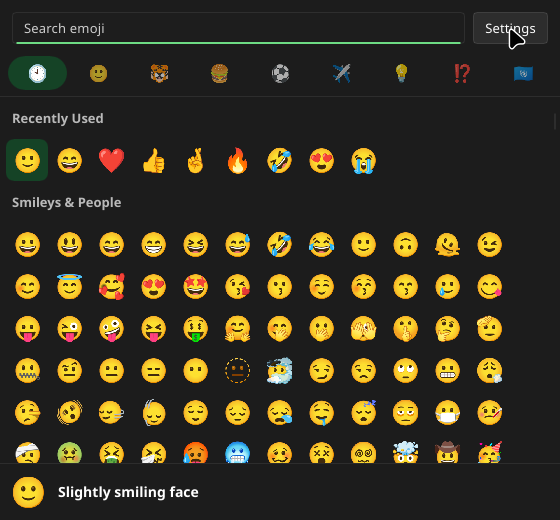
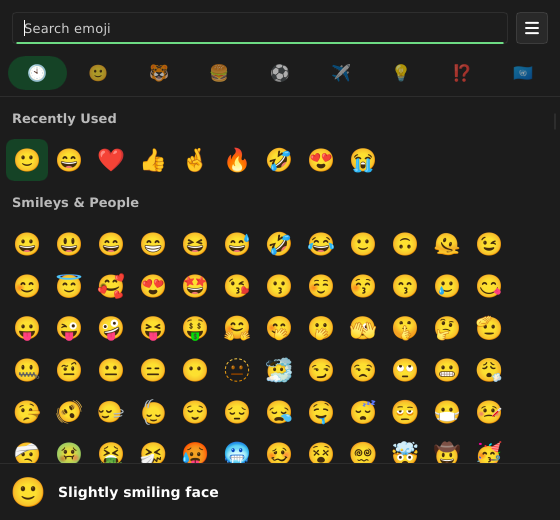
Settings changed to burger menu

diff --git a/src/glyphs.rs b/src/glyphs.rs
@@ -1,28 +1,36 @@
 //! Emoji drawn as images. Slint's software renderer cannot draw the bitmap (CBDT) Noto font, so
 //! each sequence is shaped (ZWJ, flags and skin tones are GSUB ligatures), its PNG is read from
 //! the font and downscaled. Only what is on screen is ever decoded.
-use std::{cell::RefCell, collections::HashMap};
+//!
+//! Images are made at the exact physical size they are drawn at: Slint scales images bilinearly,
+//! which skips source pixels when shrinking by more than 2x and leaves jagged, uneven edges.
+use std::{
+    cell::{Cell, RefCell},
+    collections::HashMap,
+};
 
 use slint::{Image, Rgba8Pixel, SharedPixelBuffer};
 
 const FONT: &[u8] = include_bytes!("../assets/NotoColorEmoji.ttf");
-/// Source strike is 136x128; 72 px stays crisp at 2x scaling for the largest (36 px) setting.
-const ICON: usize = 72;
 /// Two generations of this size, so at most 600 images are kept.
 const CACHE_LIMIT: usize = 300;
 
 pub struct Glyphs {
     face: ttf_parser::Face<'static>,
     shaper: rustybuzz::Face<'static>,
+    scale: Cell<f32>,
     cache: RefCell<Cache>,
 }
+
+/// Emoji and physical size in pixels.
+type Key = (&'static str, u32);
 
 /// When `recent` is full it becomes `old` and the previous `old` is dropped. Anything still being
 /// drawn is found in `old` and promoted, so a refill never re-decodes what is on screen.
 #[derive(Default)]
 struct Cache {
-    recent: HashMap<&'static str, Image>,
-    old: HashMap<&'static str, Image>,
+    recent: HashMap<Key, Image>,
+    old: HashMap<Key, Image>,
 }
 
 impl Glyphs {
@@ -30,24 +38,37 @@ impl Glyphs {
         Self {
             face: ttf_parser::Face::parse(FONT, 0).expect("bundled emoji font"),
             shaper: rustybuzz::Face::from_slice(FONT, 0).expect("bundled emoji font"),
+            scale: Cell::new(1.0),
             cache: RefCell::default(),
         }
     }
 
-    pub fn image(&self, emoji: &'static str) -> Image {
+    /// Returns true when the window scale factor changed; images made for the old one are dropped.
+    pub fn set_scale(&self, scale: f32) -> bool {
+        if scale <= 0.0 || scale == self.scale.get() {
+            return false;
+        }
+        self.scale.set(scale);
+        *self.cache.borrow_mut() = Cache::default();
+        true
+    }
+
+    /// `size` is the logical size the image is shown at.
+    pub fn image(&self, emoji: &'static str, size: f32) -> Image {
+        let key = (emoji, (size * self.scale.get()).round().max(1.0) as u32);
         let mut cache = self.cache.borrow_mut();
-        let img = match cache.recent.get(emoji).cloned().or_else(|| cache.old.remove(emoji)) {
+        let img = match cache.recent.get(&key).cloned().or_else(|| cache.old.remove(&key)) {
             Some(img) => img,
-            None => self.render(emoji).unwrap_or_default(),
+            None => self.render(emoji, key.1 as usize).unwrap_or_default(),
         };
-        if cache.recent.len() >= CACHE_LIMIT && !cache.recent.contains_key(emoji) {
+        if cache.recent.len() >= CACHE_LIMIT && !cache.recent.contains_key(&key) {
             cache.old = std::mem::take(&mut cache.recent);
         }
-        cache.recent.insert(emoji, img.clone());
+        cache.recent.insert(key, img.clone());
         img
     }
 
-    fn render(&self, emoji: &str) -> Option<Image> {
+    fn render(&self, emoji: &str, px: usize) -> Option<Image> {
         let mut buffer = rustybuzz::UnicodeBuffer::new();
         buffer.push_str(emoji);
         let shaped = rustybuzz::shape(&self.shaper, &[], buffer);
@@ -61,37 +82,71 @@ impl Glyphs {
         let info = reader.next_frame(&mut pixels).ok()?;
         let (w, h, n) = (info.width as usize, info.height as usize, info.color_type.samples());
 
-        // Alpha-weighted box filter down to ICON x ICON.
-        let mut out = SharedPixelBuffer::<Rgba8Pixel>::new(ICON as u32, ICON as u32);
+        // Premultiplied, so transparent pixels do not bleed their (meaningless) colour into edges.
+        let src: Vec<[f32; 4]> = pixels[..w * h * n]
+            .chunks_exact(n)
+            .map(|p| {
+                let (r, g, b) = if n >= 3 { (p[0], p[1], p[2]) } else { (p[0], p[0], p[0]) };
+                let a = if n % 2 == 0 { p[n - 1] } else { 255 } as f32 / 255.0;
+                [r as f32 * a, g as f32 * a, b as f32 * a, a]
+            })
+            .collect();
+
+        // Fit the (136x128, not square) strike into the square without stretching it, and average
+        // the source area under each output pixel: a separable box filter with fractional edges.
+        let scale = px as f32 / w.max(h) as f32;
+        let xs = weights(w, px, scale);
+        let ys = weights(h, px, scale);
+        let mut rows = vec![[0.0f32; 4]; h * px];
+        for y in 0..h {
+            for (x, taps) in xs.iter().enumerate() {
+                rows[y * px + x] = sum(taps.iter().map(|&(i, k)| (src[y * w + i], k)));
+            }
+        }
+        let mut out = SharedPixelBuffer::<Rgba8Pixel>::new(px as u32, px as u32);
         let dst = out.make_mut_slice();
-        for y in 0..ICON {
-            let (y0, y1) = (y * h / ICON, ((y + 1) * h / ICON).max(y * h / ICON + 1).min(h));
-            for x in 0..ICON {
-                let (x0, x1) = (x * w / ICON, ((x + 1) * w / ICON).max(x * w / ICON + 1).min(w));
-                let (mut r, mut g, mut b, mut a, mut count) = (0u32, 0u32, 0u32, 0u32, 0u32);
-                for yy in y0..y1 {
-                    for xx in x0..x1 {
-                        let p = &pixels[(yy * w + xx) * n..];
-                        let alpha = if n == 4 { p[3] as u32 } else { 255 };
-                        r += p[0] as u32 * alpha;
-                        g += p[1] as u32 * alpha;
-                        b += p[2] as u32 * alpha;
-                        a += alpha;
-                        count += 1;
-                    }
-                }
-                if a > 0 && count > 0 {
-                    dst[y * ICON + x] = Rgba8Pixel {
-                        r: (r / a) as u8,
-                        g: (g / a) as u8,
-                        b: (b / a) as u8,
-                        a: (a / count) as u8,
+        for (y, taps) in ys.iter().enumerate() {
+            for x in 0..px {
+                let [r, g, b, a] = sum(taps.iter().map(|&(i, k)| (rows[i * px + x], k)));
+                if a > 0.0 {
+                    let c = |v: f32| (v / a).clamp(0.0, 255.0).round() as u8;
+                    dst[y * px + x] = Rgba8Pixel {
+                        r: c(r),
+                        g: c(g),
+                        b: c(b),
+                        a: (a * 255.0).clamp(0.0, 255.0).round() as u8,
                     };
                 }
             }
         }
         Some(Image::from_rgba8(out))
     }
+}
+
+/// For each of the `out` pixels, the source pixels under it and their weights. They sum to 1,
+/// or less where the pixel reaches past the centred source (transparent there).
+fn weights(len: usize, out: usize, scale: f32) -> Vec<Vec<(usize, f32)>> {
+    let offset = (out as f32 - len as f32 * scale) / 2.0;
+    (0..out)
+        .map(|o| {
+            let start = ((o as f32 - offset) / scale).max(0.0);
+            let end = ((o as f32 + 1.0 - offset) / scale).min(len as f32);
+            let mut taps = Vec::new();
+            let mut i = start.floor() as usize;
+            while (i as f32) < end {
+                let covered = end.min(i as f32 + 1.0) - start.max(i as f32);
+                if covered > 0.0 {
+                    taps.push((i, covered * scale));
+                }
+                i += 1;
+            }
+            taps
+        })
+        .collect()
+}
+
+fn sum(taps: impl Iterator<Item = ([f32; 4], f32)>) -> [f32; 4] {
+    taps.fold([0.0; 4], |acc, (p, k)| std::array::from_fn(|c| acc[c] + p[c] * k))
 }
 
 #[cfg(test)]
@@ -122,5 +177,31 @@ mod tests {
             }
         }
         assert!(bad.is_empty(), "{} emoji do not draw: {bad:?}", bad.len());
+    }
+
+    /// Every source pixel must be counted exactly once in total, or the image gains or loses weight.
+    #[test]
+    fn weights_cover_the_source_once() {
+        for (len, out) in [(136, 20), (128, 28), (136, 35), (128, 72), (136, 144)] {
+            let scale = out as f32 / 136.0;
+            let mut seen = vec![0.0f32; len];
+            for taps in weights(len, out, scale) {
+                assert!(taps.iter().map(|t| t.1).sum::<f32>() <= 1.0 + 1e-4);
+                for (i, k) in taps {
+                    seen[i] += k / scale;
+                }
+            }
+            assert!(seen.iter().all(|s| (s - 1.0).abs() < 1e-3), "{len}->{out}: {seen:?}");
+        }
+    }
+
+    #[test]
+    fn images_follow_size_and_scale() {
+        let glyphs = Glyphs::new();
+        let side = |img: Image| (img.size().width, img.size().height);
+        assert_eq!(side(glyphs.image("😀", 28.0)), (28, 28));
+        assert!(glyphs.set_scale(1.5));
+        assert!(!glyphs.set_scale(1.5));
+        assert_eq!(side(glyphs.image("😀", 28.0)), (42, 42));
     }
 }

diff --git a/src/app.rs b/src/app.rs
@@ -32,6 +32,10 @@ const HOLD_GRACE: Duration = Duration::from_millis(400);
 /// How long to keep an unpasted copy alive before giving up and exiting.
 const HOLD_MAX: Duration = Duration::from_secs(300);
 const CELL_PADDING: f32 = 14.0;
+/// Image sizes used in `ui/main.slint`; images are rendered at exactly these (times the scale).
+const CATEGORY_PX: f32 = 20.0;
+const PREVIEW_PX: f32 = 36.0;
+const CHOSEN_PX: f32 = 24.0;
 
 fn debug(message: impl FnOnce() -> String) {
     static ON: std::sync::OnceLock<bool> = std::sync::OnceLock::new();
@@ -254,7 +258,7 @@ impl Model for RowsModel {
                     .map(|d| {
                         let ch = emojis::char_for(st.display[d], st.settings.skin_tone);
                         Cell {
-                            img: self.glyphs.image(ch),
+                            img: self.glyphs.image(ch, st.settings.emoji_size as f32),
                             index: d as i32,
                         }
                     })
@@ -325,6 +329,27 @@ impl App {
         self.sync();
     }
 
+    fn set_categories(&self) {
+        let categories: Vec<Category> = emojis::CATEGORIES
+            .iter()
+            .map(|(_, label, icon)| Category {
+                img: self.glyphs.image(icon, CATEGORY_PX),
+                label: (*label).into(),
+            })
+            .collect();
+        self.ui().set_categories(ModelRc::new(VecModel::from(categories)));
+    }
+
+    /// Images are made for the current scale factor, which is only known once the window exists
+    /// and changes when it moves to another monitor; redraw them all when it does.
+    fn refresh_scale(&self) {
+        if self.glyphs.set_scale(self.ui().window().scale_factor()) {
+            self.set_categories();
+            self.model.notify.reset();
+            self.sync();
+        }
+    }
+
     /// Push derived state (selection, preview, multi-select strip, settings) into the UI.
     fn sync(&self) {
         let ui = self.ui();
@@ -347,7 +372,7 @@ impl App {
         match st.display.get(st.selected) {
             Some(&e) => {
                 ui.set_selected_index(st.selected as i32);
-                ui.set_preview_img(self.glyphs.image(emojis::char_for(e, tone)));
+                ui.set_preview_img(self.glyphs.image(emojis::char_for(e, tone), PREVIEW_PX));
                 ui.set_preview_name(emojis::EMOJIS[e].name.into());
             }
             None => {
@@ -357,7 +382,7 @@ impl App {
             }
         }
         let shown = &st.chosen[st.chosen.len().saturating_sub(4)..];
-        let images: Vec<Image> = shown.iter().map(|c| self.glyphs.image(c)).collect();
+        let images: Vec<Image> = shown.iter().map(|c| self.glyphs.image(c, CHOSEN_PX)).collect();
         ui.set_chosen(ModelRc::new(VecModel::from(images)));
         let hidden = st.chosen.len() - shown.len();
         ui.set_chosen_more(
@@ -376,6 +401,7 @@ impl App {
         if width <= 0.0 {
             return;
         }
+        self.refresh_scale();
         let ui = self.ui();
         let (anchor, cell) = {
             let mut st = self.st.borrow_mut();
@@ -811,6 +837,7 @@ impl App {
         self.shown_at.set(Some(Instant::now()));
         self.last_time.set(time);
         let _ = ui.show();
+        self.refresh_scale();
         self.activate(time);
         ui.invoke_focus_search();
         self.keep_requesting_focus();
@@ -967,14 +994,7 @@ pub fn run(show: bool, command: &str) {
     APP.with(|a| *a.borrow_mut() = Some(app.clone()));
 
     ui.set_lines(ModelRc::from(model));
-    let categories: Vec<Category> = emojis::CATEGORIES
-        .iter()
-        .map(|(_, label, icon)| Category {
-            img: glyphs.image(icon),
-            label: (*label).into(),
-        })
-        .collect();
-    ui.set_categories(ModelRc::new(VecModel::from(categories)));
+    app.set_categories();
 
     macro_rules! wire {
         ($on:ident, |$app:ident $(, $arg:ident)*| $body:expr) => {{

diff --git a/AGENTS.md b/AGENTS.md
@@ -42,7 +42,7 @@ System deps: `libfontconfig-dev libxkbcommon-dev libxkbcommon-x11-dev libx11-dev
 
 ## Architecture decisions (do not undo without measuring)
 
-- **Software renderer + emoji as images.** Slint's GL renderer (femtovg) draws the CBDT bitmap Noto font but costs ~108 MB RSS; the software renderer costs ~27 MB but draws *nothing* for that font. So `glyphs.rs` shapes each emoji, takes its PNG from the font, downsizes to 72 px, caches up to 600 images. Backend is forced in `main.rs` (`winit` + `software`) and in `Cargo.toml` features (`default-features = false`).
+- **Software renderer + emoji as images.** Slint's GL renderer (femtovg) draws the CBDT bitmap Noto font but costs ~108 MB RSS; the software renderer costs ~27 MB but draws *nothing* for that font. So `glyphs.rs` shapes each emoji, takes its PNG from the font, area-averages it down to the **exact physical size it is shown at** (logical size × window scale factor, cache keyed by emoji and size, up to 600 images). Do not go back to one fixed size scaled by Slint: its software renderer scales bilinearly, which skips source pixels when shrinking more than 2x and made the emoji jagged, worse at some sizes than others. The image sizes in `ui/main.slint` are mirrored as constants in `app.rs`. Backend is forced in `main.rs` (`winit` + `software`) and in `Cargo.toml` features (`default-features = false`).
 - **Lazy rows.** `RowsModel` builds each `Line` on demand so only visible rows are decoded. All rows have the same height (titles included). Layout is rebuilt on width/size/search changes; `State::rebuild` is cheap.
 - **Never hold a `State` borrow while calling `model.notify.reset()`** or anything that makes Slint re-read the model; drop the `RefCell` borrow first.
 - **Resident window, show/hide.** The process stays alive; `open()` shows, `hide()` hides. Window size and recents persist in `settings.toml`.

diff --git a/README.md b/README.md
@@ -119,7 +119,7 @@ Adjust `ExecStart` to where `fastmoji` is installed (for the Flatpak use `flatpa
 ## How it is built
 
 - **Rust + Slint** with the winit backend and the **software renderer** (no GPU/GL context, which is where most of the memory of a toolkit app goes).
-- **Emoji drawn as images**: the software renderer cannot draw the bitmap (CBDT) Noto font, so `src/glyphs.rs` shapes each emoji (`rustybuzz`), reads its PNG from the font (`ttf-parser`, `png`) and downsizes it. Only the visible rows are decoded.
+- **Emoji drawn as images**: the software renderer cannot draw the bitmap (CBDT) Noto font, so `src/glyphs.rs` shapes each emoji (`rustybuzz`), reads its PNG from the font (`ttf-parser`, `png`) and downsizes it to the exact pixel size it is shown at, so it stays sharp. Only the visible rows are decoded.
 - **Emoji data baked in** by `build.rs` from `assets/emojis.csv`; search is a substring match over precomputed lowercase terms.
 - **X11 through `x11rb`**: `XGrabKey` hotkey, XTEST Ctrl+V paste (Ctrl+Shift+V when the previous window is a known terminal), EWMH focus hand-over, and a small clipboard owner that knows when another app takes the clipboard.
 - **Single instance** through a Unix socket; the daemon shows/hides one window.
